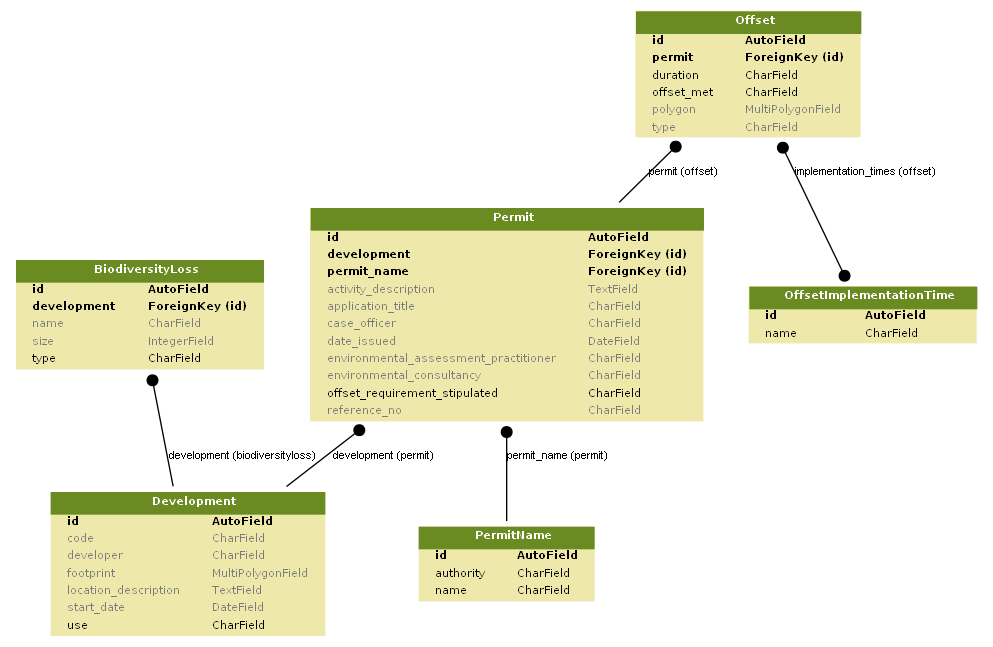
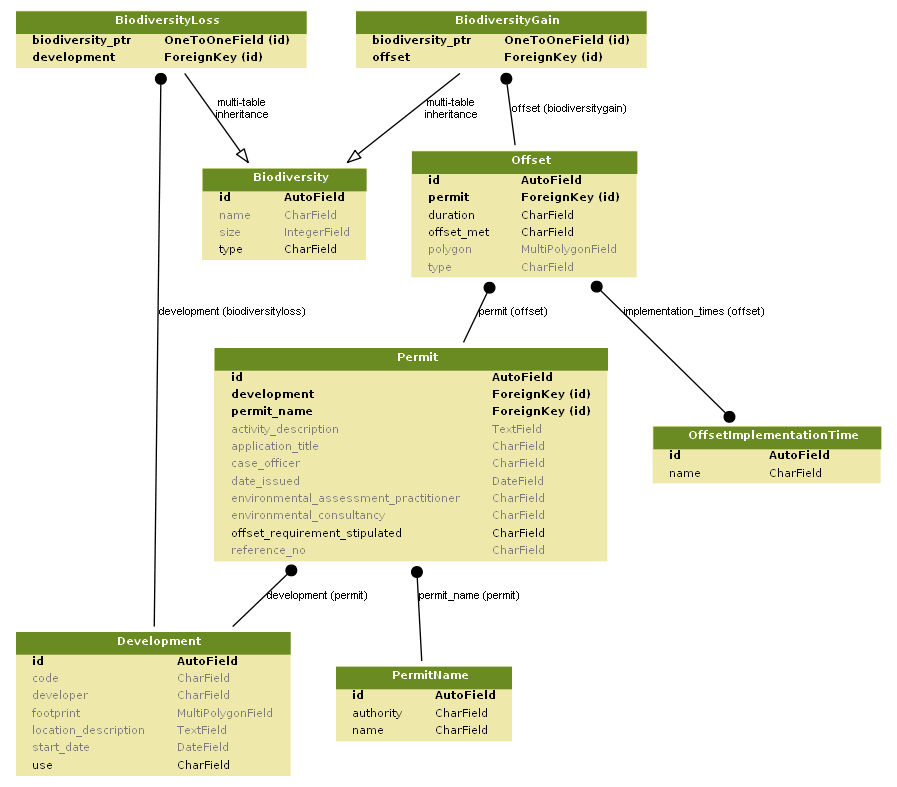
Changed the biodiversityloss table to Biodiversity and subclassed it in 2 seperate tables to link to development and offset (one for loss one for gain)

diff --git a/core/migrations/0004_auto_20171214_1009.py b/core/migrations/0004_auto_20171214_1009.py
@@ -1,0 +1,55 @@
+# -*- coding: utf-8 -*-
+# Generated by Django 1.11.3 on 2017-12-14 08:09
+from __future__ import unicode_literals
+
+from django.db import migrations, models
+import django.db.models.deletion
+
+
+class Migration(migrations.Migration):
+
+    dependencies = [
+        ('core', '0003_auto_20171214_0952'),
+    ]
+
+    operations = [
+        migrations.CreateModel(
+            name='Biodiversity',
+            fields=[
+                ('id', models.AutoField(auto_created=True, primary_key=True, serialize=False, verbose_name='ID')),
+                ('type', models.CharField(choices=[('E', 'Ecosystem'), ('T', 'Threatened or protected species populations/individuals')], max_length=1)),
+                ('name', models.CharField(blank=True, help_text='The name of the ecosystem or protected species.', max_length=200, null=True)),
+                ('size', models.IntegerField(blank=True, help_text='This is the area in hectares relevant to this trigger (e.g. 20 ha of pristine renosterveld will be destroyed).', null=True)),
+            ],
+        ),
+        migrations.RemoveField(
+            model_name='biodiversityloss',
+            name='id',
+        ),
+        migrations.RemoveField(
+            model_name='biodiversityloss',
+            name='name',
+        ),
+        migrations.RemoveField(
+            model_name='biodiversityloss',
+            name='size',
+        ),
+        migrations.RemoveField(
+            model_name='biodiversityloss',
+            name='type',
+        ),
+        migrations.CreateModel(
+            name='BiodiversityGain',
+            fields=[
+                ('biodiversity_ptr', models.OneToOneField(auto_created=True, on_delete=django.db.models.deletion.CASCADE, parent_link=True, primary_key=True, serialize=False, to='core.Biodiversity')),
+                ('offset', models.ForeignKey(help_text="The relevant offset, should only link to offsets of type 'hectares'.", on_delete=django.db.models.deletion.CASCADE, to='core.Offset')),
+            ],
+            bases=('core.biodiversity',),
+        ),
+        migrations.AddField(
+            model_name='biodiversityloss',
+            name='biodiversity_ptr',
+            field=models.OneToOneField(auto_created=True, default=1, on_delete=django.db.models.deletion.CASCADE, parent_link=True, primary_key=True, serialize=False, to='core.Biodiversity'),
+            preserve_default=False,
+        ),
+    ]

diff --git a/core/models.py b/core/models.py
@@ -160,12 +160,11 @@ class Offset(models.Model):
     offset_met = models.CharField(max_length=1, choices=OFFSET_MET_CHOICES, help_text="The status of the offset requirement (whether it has been met or not).")
 
 
-class BiodiversityLoss(models.Model):
+class Biodiversity(models.Model):
     """
     Every time a development occurs there is a loss of biodiversity. Sometimes this biodiversity loss is reflected in the
     offset, sometimes not. This table will store the each piece of biodiversity lost for a development footprint.
     """
-    development = models.ForeignKey(Development, help_text="The relevant development.")
     ECOSYSTEM = 'E'
     THREATENED_SP = 'T'
     TYPE_CHOICES = (
@@ -179,5 +178,19 @@ class BiodiversityLoss(models.Model):
     size = models.IntegerField(null=True, blank=True, help_text="This is the area in hectares relevant to this trigger (e.g. 20 ha of pristine renosterveld will be destroyed).")
 
 
+class BiodiversityLoss(Biodiversity):
+    """
+    Every time a development occurs there is a loss of biodiversity. Sometimes this biodiversity loss is reflected in the
+    offset, sometimes not. This table will store the each piece of biodiversity lost for a development footprint.
+    """
+    development = models.ForeignKey(Development, help_text="The relevant development.")
+
+
+class BiodiversityGain(Biodiversity):
+    """
+    Every time a development occurs there is a loss of biodiversity. Sometimes this biodiversity loss is reflected in the
+    offset, sometimes not. This table will store the each piece of biodiversity lost for a development footprint.
+    """
+    offset = models.ForeignKey(Offset, help_text="The relevant offset, should only link to offsets of type 'hectares'.")
 
 
